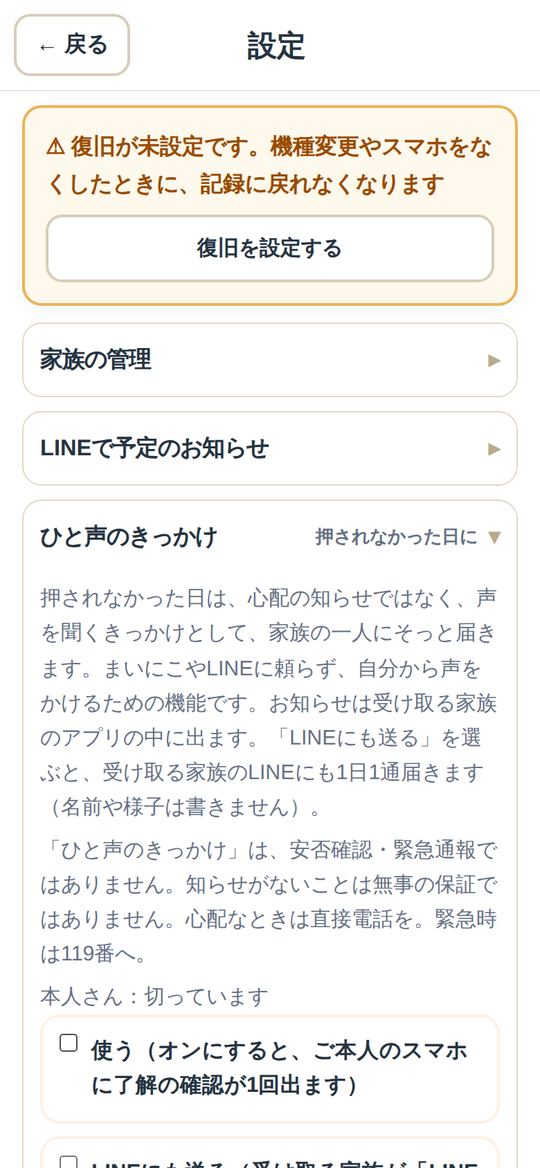
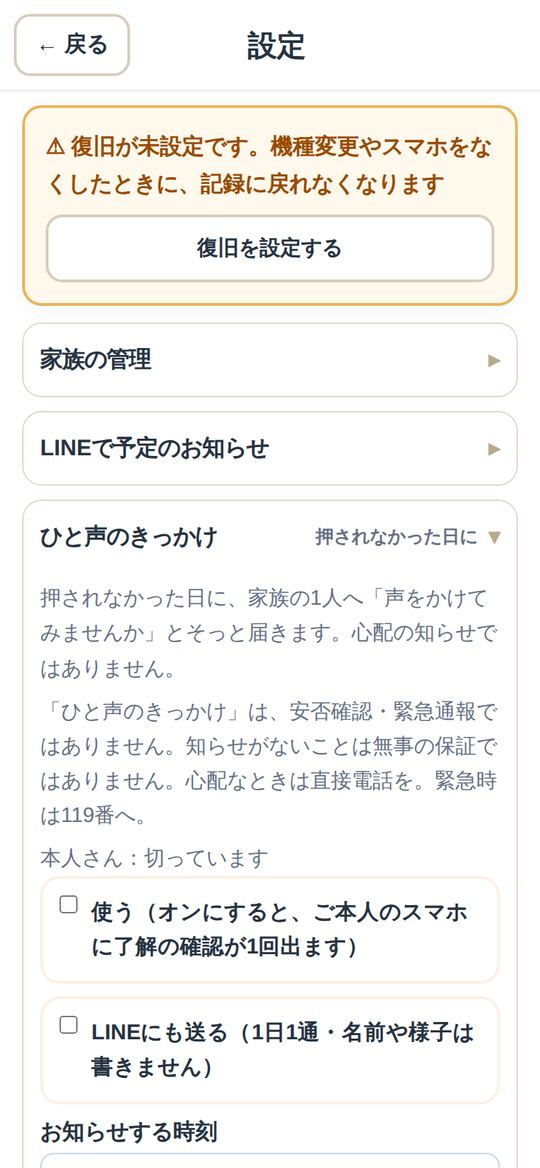
説明文を短く：入口・家族とつながる・家族の管理・やりとり・ひと声・アンケート。ガイドの写真も撮り直し
- 入口の3つのお約束を短く（カメラも位置情報も使わない／見られるのは家族だけ／119番の代わりではない）
- 家族とつながる画面・家族の管理（招待）・本人とのやりとり・復旧のお知らせ・ひと声の設定・アンケートの説明を、1〜2文に
- 安全に関わる注意（119番・安否確認の代わりではない、名前や様子を書かない等）は残す
- 写真つきガイドの写真を、短くした画面で撮り直し

Claude-Session: https://claude.ai/code/session_01NHzjzuWBmHWp9wX2PF6KgL

Changed region(s): [[0.0593, 0.4932, 0.9185, 1.0], [0.4444, 0.9863, 0.8889, 1.0]]

diff --git a/index.html b/index.html
@@ -885,7 +885,7 @@ a.set-btn.ln-line,a.set-btn.ln-soft{text-decoration:none;}
       url+=(url.indexOf('?')<0?'?':'&')+'openExternalBrowser=1'+(invite?'&invite='+encodeURIComponent(invite):'');
       box.innerHTML=inLine
         ?'<b>LINEの中で開いています</b>すでにまいにこを使っている方は、ここで新しく始めず、ホーム画面の「まいにこ」アイコンから開いてください。<br>はじめて使う方は、下のボタンでいつものブラウザーに移ってから始めてください（LINEの中では、次に開いたとき続きから使えないことがあります）。<br><a href="'+url.replace(/"/g,'&quot;')+'">いつものブラウザーで開く</a>'
-        :'<b>すでに使っている方へ</b>ホーム画面に「まいにこ」を追加している方は、ここで新しく始めず、ホーム画面のアイコンから開いてください。';
+        :'<b>すでに使っている方へ</b>ホーム画面の「まいにこ」から開いてください。';
       box.hidden=false;
     }catch(e){}
   });
@@ -932,9 +932,9 @@ a.set-btn.ln-line,a.set-btn.ln-soft{text-decoration:none;}
   <div class="entry-sub">― 家族のつながり ―</div>
   <div class="entry-catch">不安を軽く、安心を深く、<br>上田でつなぐ。</div>
   <ul class="entry-promise">
-    <li>カメラも位置情報も使いません。ボタンで残した記録を、家族で見せ合うしくみです</li>
-    <li>いまは試験運用中です。勤務先の企業や市が、記録を見ることはありません</li>
-    <li>安否確認や119番の代わりではありません。毎日の連絡を軽くする道具です</li>
+    <li>カメラも位置情報も使いません</li>
+    <li>記録を見られるのは、家族だけです</li>
+    <li>119番や安否確認の代わりではありません</li>
   </ul>
   <div class="open-place-note" id="open-place-note" hidden></div>
   <div class="invite-note" id="invite-note" role="status" hidden></div>
@@ -1158,18 +1158,18 @@ a.set-btn.ln-line,a.set-btn.ln-soft{text-decoration:none;}
 <div class="page" id="connect-page" style="background:#fff;">
   <div class="setup-wrap">
     <div class="setup-ttl">家族とつながる</div>
-    <p class="setup-lead" id="connect-lead">はじめて使う場合は「新しくはじめる」を。すでにご家族が使っている場合は、招待コードを入力してください。</p>
+    <p class="setup-lead" id="connect-lead">はじめては「新しくはじめる」。招待された方は、QRかコードで参加します。</p>
     <div id="together-box" style="display:none;max-width:320px;margin:0 auto;">
       <label class="consent-item"><input type="checkbox" id="ck-together"> ご本人に、このアプリの利用と記録の共有を説明し、了解を得ています</label>
     </div>
     <button class="entry-btn" id="btn-newgroup" onclick="createGroup()">新しくはじめる</button>
     <div class="setup-or">─ または ─</div>
-    <button class="entry-btn sub qr-scan-btn" type="button" onclick="scanInviteQr()">📷 招待QRを読み取る<small>ご家族の画面に出ている招待QRを、このスマホで読みます</small></button>
+    <button class="entry-btn sub qr-scan-btn" type="button" onclick="scanInviteQr()">📷 招待QRを読み取る</button>
     <input type="text" id="in-code" class="setup-input" placeholder="招待コードを入力" autocapitalize="characters" autocomplete="off">
     <button class="entry-btn sub" onclick="joinByCode()">招待コードで参加</button>
     <button class="consent-back" onclick="openRecovery()">以前のアカウントを復旧する</button>
     <a class="consent-back" href="help.html#locked-out" target="_blank" rel="noopener">家族の誰も入れなくなったとき（運営者への相談）</a>
-    <div class="note" style="max-width:320px;margin:10px auto 0;text-align:left;">招待コードは、すでに利用中のご家族の画面の「設定」→「家族の管理」→「家族を追加する」で発行できます。コードで参加すると「承認待ち」になり、管理者が認めると利用できます。招待コードは一度使うと再び使えません。認められなかったときや申請を取り下げたときは、新しいコードを発行してもらってください。<br><br>この端末は一度つながると、モードを切り替えても同じご家族の記録を使います。</div>
+    <div class="note" style="max-width:320px;margin:10px auto 0;text-align:left;">招待コードは、ご家族の「設定」→「家族の管理」で作れます。参加すると「承認待ち」になり、認められると使えます。</div>
     <button class="consent-back" onclick="showPage('entry')">← 入口に戻る</button>
   </div>
 </div>
@@ -1580,12 +1580,11 @@ a.set-btn.ln-line,a.set-btn.ln-soft{text-decoration:none;}
           <h4 id="settings-family-connection" tabindex="-1" style="scroll-margin-top:70px;">つながっている人</h4>
           <p class="note" data-connection-state aria-live="polite">連携状況を確認しています。</p>
           <div id="set-members"><div class="empty">読み込み中…</div></div>
-          <p class="note">解除・退出の影響は、実行前の確認画面に表示されます。</p>
-          <p class="note" data-communication-gate="person">本人の「おはよう」への返事のしかたは、<a href="help.html#reply" target="_blank" rel="noopener">使い方（返事のしかた）</a>で確認できます。</p>
+
         </div>
         <div class="set-sec" data-owner-only hidden>
           <h4>家族を追加する</h4>
-          <div class="note" style="margin-top:0;">① コードを作る → ② 家族に伝える（電話やメモ） → ③ 家族がまいにこを開き、入口の「招待された方」から案内に沿って進んで、QRを読み取るかコードを入力 → ④ あなたが「参加を認める」で完了。<br><span style="color:#8A6F4D;">コードは24時間・1回だけ使えます。</span>コードを渡しただけでは共有は始まりません。</div>
+          <div class="note" style="margin-top:0;">コードを作って家族に伝え、家族が入れたら「参加を認める」を押します。<span style="color:#8A6F4D;">コードは24時間・1回だけ使えます。</span></div>
           <button data-owner-only hidden class="set-btn" onclick="makeInvite('settings-invite-area')">招待コードを作る</button>
           <div id="settings-invite-area"></div>
         </div>
@@ -2714,7 +2713,7 @@ function updateCommunicationAvailability(){
   const state=document.getElementById('person-contact-state');
   if(state)state.textContent=!canUseFamilyFeature('person')?(familyConnection.status==='unknown'?
     '通信を確認しています。返事は確認後に送れます。':
-    '返事ボタンは、ご本人が別のスマホ（別のアカウント）で「本人が使う」として参加すると表示されます。'):
+    'ご本人がスマホで参加すると、ここで返事ができます。'):
     familyHomeEventStatus==='cached'?'保存したやりとりを表示しています。最新の連絡は通信が戻ってから確認します。':
     familyHomeEventStatus==='error'?'やりとりを読み込めませんでした。通信状態を確認してください。':
     familyHomeEventStatus==='loading'?'やりとりを読み込んでいます…':'';
@@ -2760,8 +2759,8 @@ function renderFamilyConnection(){
   if(state.status!=='unknown')lastFamilyAudience=state;
   updateCommunicationAvailability();
   const text=state.status==='unknown'?'連携状況を確認できません。一人でも記録できます。':state.status==='solo'?
-    '今はほかの承認済み参加者はいません。招待せずに使えます。':
-    'ほかの承認済み参加者 '+state.others+'人と記録を共有しています。相手の確認・対応を示すものではありません。';
+    'ほかの家族はまだいません。':
+    'ほかの家族 '+state.others+'人と記録を共有しています。';
   document.querySelectorAll('[data-connection-state]').forEach(el=>el.textContent=text);
   document.querySelectorAll('[data-request-audience]').forEach(el=>el.textContent=requestAudienceText());
   document.querySelectorAll('[data-person-audience]').forEach(el=>el.textContent=state.status==='unknown'?
@@ -3012,13 +3011,13 @@ function setupConnectPage(){
     return;
   }
   if(pendingMode==='honnin'){
-    lead.textContent='ご家族の画面の「設定」で発行した招待コードを入力してください。ご本人がはじめて使う場合は「新しくはじめる」も選べます。';
+    lead.textContent='ご家族からもらった招待コード（またはQR）で参加します。';
     btn.textContent='新しくはじめる'; tb.style.display='none';
   }else if(pendingMode==='kazoku'){
-    lead.textContent='はじめて使うご家庭は「ご本人と一緒に初期設定する」を。すでにご家族が使っている場合は、招待コードを入力してください。';
+    lead.textContent='はじめては「ご本人と一緒に初期設定する」。招待された方は、QRかコードで参加します。';
     btn.textContent='ご本人と一緒に初期設定する'; tb.style.display='block';
   }else{
-    lead.textContent='はじめて使う場合は「新しくはじめる」を。すでにご家族が使っている場合は、招待コードを入力してください。';
+    lead.textContent='はじめては「新しくはじめる」。招待された方は、QRかコードで参加します。';
     btn.textContent='新しくはじめる'; tb.style.display='none';
   }
 }
@@ -7776,7 +7775,7 @@ function renderFamilyNotices(){
     const key='mainicoRecoveryNoticeSeen-'+gid()+'-'+u+'-'+mine.state;
     try{if(previewStorage.getItem(key))return;}catch(e){}
     const name=(memberInfoByUid[u]&&memberInfoByUid[u].name)||'ご本人';
-    parts.push('<div class="card notice-card" role="status"><p><b>'+esc(name)+'さんのスマホの復旧が未設定です。</b><br>機種変更やスマホをなくしたときに、記録に戻れなくなります。次に会ったときに、ご本人のスマホの「その他の設定」→「機種変更・スマホをなくしたとき」で一緒に設定してください。</p>'+
+    parts.push('<div class="card notice-card" role="status"><p><b>'+esc(name)+'さんのスマホの復旧が未設定です。</b><br>次に会ったとき、ご本人のスマホの「その他の設定」で一緒に設定してください。</p>'+
       '<button class="set-btn" type="button" onclick="dismissFamilyNotice(\''+jsArg(key)+'\')">わかりました</button></div>');
   });
   /* LINEの残りが少ないとき(まいにこ全体で共通) */

diff --git a/hitokoe.js b/hitokoe.js
@@ -133,11 +133,11 @@
   function settingsHtml(cfg,members,results){
     var fam=Object.keys(members).filter(function(u){ return approved(members[u])&&!isHonnin(members[u]); });
     var opt=function(sel){ return '<option value="">（設定した人）</option>'+fam.map(function(u){ return '<option value="'+esc(u)+'"'+(sel===u?' selected':'')+'>'+esc(members[u].name||'家族')+'</option>'; }).join(''); };
-    var h='<p class="note">押されなかった日は、心配の知らせではなく、声を聞くきっかけとして、家族の一人にそっと届きます。まいにこやLINEに頼らず、自分から声をかけるための機能です。お知らせは受け取る家族のアプリの中に出ます。「LINEにも送る」を選ぶと、受け取る家族のLINEにも1日1通届きます（名前や様子は書きません）。</p>'+
+    var h='<p class="note">押されなかった日に、家族の1人へ「声をかけてみませんか」とそっと届きます。心配の知らせではありません。</p>'+
       '<p class="note hitokoe-small">'+esc(NOTES)+'</p>'+
       '<p class="note" data-hitokoe-status>'+statusText(results)+'</p>'+
       '<label class="consent-item"><input type="checkbox" data-hk="enabled"'+(cfg.enabled?' checked':'')+'> 使う（オンにすると、ご本人のスマホに了解の確認が1回出ます）</label>'+
-      '<label class="consent-item"><input type="checkbox" data-hk="line"'+(cfg.line?' checked':'')+'> LINEにも送る（受け取る家族が「LINEで予定のお知らせ」で自分のLINEを登録しているとき。まいにこ全体で月90通までの無料の範囲で送ります。上限に達した月は、アプリの中だけに出ます）</label>'+
+      '<label class="consent-item"><input type="checkbox" data-hk="line"'+(cfg.line?' checked':'')+'> LINEにも送る（1日1通・名前や様子は書きません）</label>'+
       '<label>お知らせする時刻<select data-hk="hour">'+HOURS.map(function(x){ return '<option value="'+x+'"'+(cfg.hour===x?' selected':'')+'>'+x+'時までに届かないとき</option>'; }).join('')+'</select></label>'+
       '<details><summary>曜日ごとの担当（受け取る家族は1人）</summary><div class="hitokoe-grid">';
     for(var i=0;i<7;i++) h+='<label>'+WD.charAt(i)+'曜<select data-hk-day="'+i+'">'+opt(cfg.assignees[String(i)]||'')+'</select></label>';

diff --git a/family-survey.js b/family-survey.js
@@ -36,7 +36,7 @@
       : '<b>この1か月</b>で、親のことで仕事を休んだり早退したりしたのは何回ですか。';
     return '<div class="card survey-card" role="region" aria-label="試験運用のアンケート">' +
       '<h3>📝 試験運用のアンケート（任意・1分）</h3>' +
-      '<p class="note">まいにこが家族の役に立っているかを確かめるためのものです。答えは<b>ほかの家族には見えません</b>。運営者には、名前の分からない全体の数字だけが届きます。答えなくても、使い方は何も変わりません。</p>' +
+      '<p class="note">答えは<b>ほかの家族には見えません</b>。答えなくても、使い方は何も変わりません。</p>' +
       '<p class="survey-q">' + q1 + '</p>' + radios('survey-absences', ABSENCES) +
       (kind === 'monthly' ? '<p class="survey-q">まいにこを使って、親のようすを確かめる<b>負担</b>はどうですか。</p>' + radios('survey-burden', BURDEN) : '') +
       '<button class="big-btn family" type="button" data-survey-act="send">答える</button>' +
